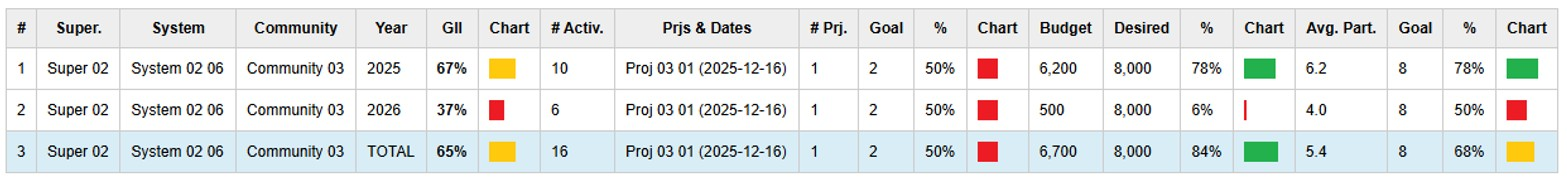
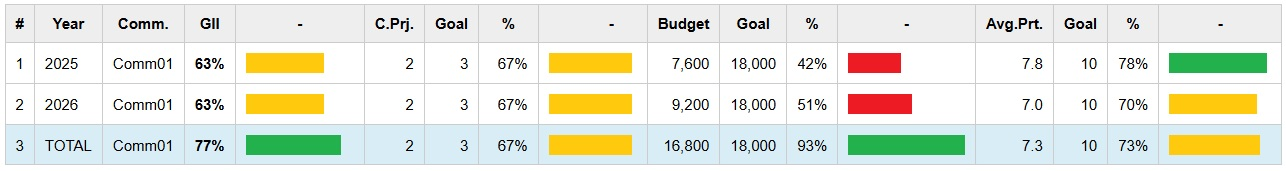
Organizar documentación con los cambios

Changed region(s): [[0.0, 0.0292, 1.0, 0.9649], [0.0, 0.0, 0.9953, 0.0292]]

diff --git a/docs/indInterGnrl.md b/docs/indInterGnrl.md
@@ -6,30 +6,43 @@ the community level. It integrates the different computed indicators through a w
 specific dimension of project execution. The indicator is calculated for each community using the expression defined by the corresponding weights 
 and indicators (Bᵢ is Budget indicator, Tᵢ is Time indicator and Uᵢ: Users indicator):<br><br>
 
-**GIIᵢ = (pBᵢ * Bᵢ) + (pTᵢ * Tᵢ) + (pUᵢ * Uᵢ)**
+**GIIᵢ = + (pPᵢ * Pᵢ) (pBᵢ * Bᵢ) + (pUᵢ * Uᵢ) + + (pTᵢ * Tᵢ) +(pAᵢ * Aᵢ)**
 
-<br>Each indicator, B, T, or U is computed as the proportion of achieved outcomes relative to the number of projects, based on predefined goals, 
-thereby enabling comparison across communities (as defined in Equation 1). The indicators Ij may take values greater than 1 when the defined goal 
-is exceeded, making it possible to identify scenarios of overachievement and additional efficiency. The indicator for each item is calculated as 
-the ratio between the achieved value for each measured element and the product of the number of projects and the corresponding community goal, 
-as follows:<br><br>
 
-**Indicatorᵢ = (Sumatoria(Achieved valueⱼ)/number of projectsᵢ) / Goalᵢ**	
+Each indicator, P, B, U, T, or A is computed as the proportion of achieved outcomes relative to the number of projects, based on predefined goals, 
+thereby enabling comparisons across communities. The following equations are derived from Equation (1) by adapting the observed value for each 
+indicator. In these equations, n denotes the number of projects in the community. The indicators may take values greater than 1 when the defined 
+goal is exceeded, making it possible to identify scenarios of overachievement and additional efficiency. 
 
-<br>In Equation, n represents the number of projects in the community. The goal values are defined together with the weights pB, pT, and pU, 
-which represent the relative importance assigned to each indicator within the community and must satisfy the condition that their sum equals 1. These weights correspond to:<br>
 
-1. pBᵢ: weight assigned to the Budget indicator
+**Pᵢ =(Numbers by Communityᵢ)⁄(Community Goalᵢ) 						(Equation 3)**
 
-2. pTᵢ: weight assigned to the Time indicator
+**B,T,or Aᵢ =(∑ (Achieved by projectᵢ) ⁄ Community Goalᵢ 					(Equation 4)**
 
-3. pUᵢ: weight assigned to the Users indicator
+**Uᵢ =∑ Achieved by projectᵢ ⁄ number of projectsᵢ) ⁄ Community Goalᵢ 			(Equation 5)**
 
-<br>The report presents a table listing projects by Supersystem, system, and Comunity, including the number of projects, the budget amount, 
-and the total number of beneficiaries. For the last three items, comparative charts are also presented alongside the list.An example from mid-January 2026 is shown in the figure.<br>
+
+Thresholds can also be defined for color-coded visualization. In this study, values above 75% are represented in green, values between 60% and 74% 
+in orange, and values below 60% in red. For illustration, Participants are assigned a higher weight to prioritize intervention impact. 
+
+However, the proposed formulation allows the weights to be adjusted according to the application context, program objectives, or expert-defined 
+criteria. The associated weights reflect the relative importance of each variable within the evaluation and constitute a key methodological decision,
+ as they directly influence both the interpretation of the indicator and the conclusions derived from the analysis.
+
+Figure 5 shows the GII for Community 01 (to improve readability, the Supersystem, System, Activity Hours, and Activities columns were omitted). 
+In row 1, the indicator reaches 63% for 2025, based on 67% of the assigned projects, 42% of the Executed Budget, and 78% of the Participants. 
+The indicator is also 63% in row 2 and reaches 77% in row 3, which corresponds to the consolidated value for the two-year reporting period. 
+The values are obtained by applying Equations (2)–(5). As an example, the use of these equations is illustrated for row 3 as follows:
+
+Applying Equation (3), the Projects indicator is calculated as 2/3=0.67, where two projects were executed out of three planned. Applying Equation (4),
+ the Executed Budget indicator is calculated as 16,800 / 18,000 = 0.93. Applying to Equation (5), the Participants indicator is calculated as 
+7.3 / 10 = 0.73. In this case, an additional calculation is required because the value corresponds to the average number of participants per 
+activity. Finally, applying Equation (2), and considering weights of 0.4, 0.3, and 0.3 for Projects, Executed Budget, and Participants, 
+respectively (Activity Hours and Activities were not considered in this example because they are omitted from the figure). The resulting 
+GII is 77%, using the following calculation: 
+
+
+GII3 = (pP3*Pᵢ) + (pB3*B3) + (pU3*U3) + (pT3*T3) + (pA3*A3) = (0.67*0.4) + (0.93*0.3) + (0.73*0.3) + (0.71*0) + (0.64*0) = 0.77
+
 
 ![Indicador de intervención general](../img/fig5e_indGnrl.jpg)
-
-<br>An unfiltered example is also presented.<br><br>
-
-![Ind consolidado ](../img/fig5e_indGnrl_large.jpg)

diff --git a/docs/indInterv.md b/docs/indInterv.md
@@ -8,21 +8,17 @@ is calculated as follows:<br><br>
 **Indicatorᵢ = Actual valueᵢ / Comparative valueᵢ**
 
 <br>The three indicators use the same columns (supersystem, system, community, projects, budget, participants, hours and activities), except that the first two incorporate the corresponding month or year column, while the first additionally includes the goals defined for each indicator. 
+The following reports illustrate these evaluation approaches. They share a common structure that combines project identification, temporal 
+information, execution metrics, and the corresponding charts. Unlike the other reports, the first also includes the planned values defined by each community, enabling a direct comparison between planned 
+and executed results. 
 
-The comparative value i corresponds respectively in each indicator to the goal defined for the community, the maximum value between communities, 
-or the maximum value in the list, so:
+Figure presents examples of the intervention indicators. The first two reports were filtered for a single community, whereas the third is grouped by 
+Supersystem 01, which contains two communities. 
 
-1. According to defined goals, grouping the information by month. For example, in row 1 it can be observed that the first community executed 1500 during the first month out of the 4000 planned for the two-month period, thus obtaining a 38% project execution with respect to the established goal. Participants, hours, and activities are calculated in the same way.
+1. Goal-based: The information is grouped by month and compared with the goals defined by the community. For example, during the first month the community executed a budget of $2,900 out of the $3,000 planned for the two-month period (comparative value), resulting in a project execution value of 97% with respect to the established goal. Participants, time and activities using the same procedure.
 
-2. According to the generated list, grouping the information by year. In the example, it can be observed that in 2026 community 01 executed 2 projects, $5300 in budget, involved 66 participants over 56 hours, and carried out 10 activities. In this case, these values correspond to the highest record found in the list generated for that year and community.
+2. List-based: The information is grouped by year, and each value is compared with the highest record on the list. In the example, Community 03 executed one project in 2026, investing $700, involving 10 participants, completing 16 hours, and carrying out 2 activities. These values are expressed as percentages relative to the highest values recorded in the list for that year; for example: 10 participants between 31 (comparative value) is 32%.
 
-3. According to the generated list by system. In this case, each row shows execution percentages calculated with respect to the highest value registered within the corresponding system. For this reason, whenever the system changes, the values used to calculate each chart are displayed beforehand. In the example of super 01, three communities distributed across two systems can be observed; for instance, the third row executed 50% of the budget executed by community 01
-
-An example is shown in the figure, where data were filtered for a single supersystem, one system, and one community.<br><br>
+3. Supersystem: The information is grouped by supersystem, each row represents a community, and the percentages are calculated relative to the highest values within the corresponding supersystem. Since the comparison depends on the selected communities, the reference values used to compute each chart are displayed before the graphs. In the example, Supersystem 01 contains two communities working on three projects. The first community achieved the highest values, while the second reached 50% on projects, 10% on Executed Budget, 20% on participants, 18% in hours, and 21% on activities relative to the leading community; for example: 4 activities between 19 (comparative value) is 21%.
 
 ![Ind Intervenciones ](img/fig5a_3Ind.jpg)
-
-An unfiltered example is also presented.
-
-![Ind Intervenciones ](img/fig5a_3Ind_large.jpg)
-